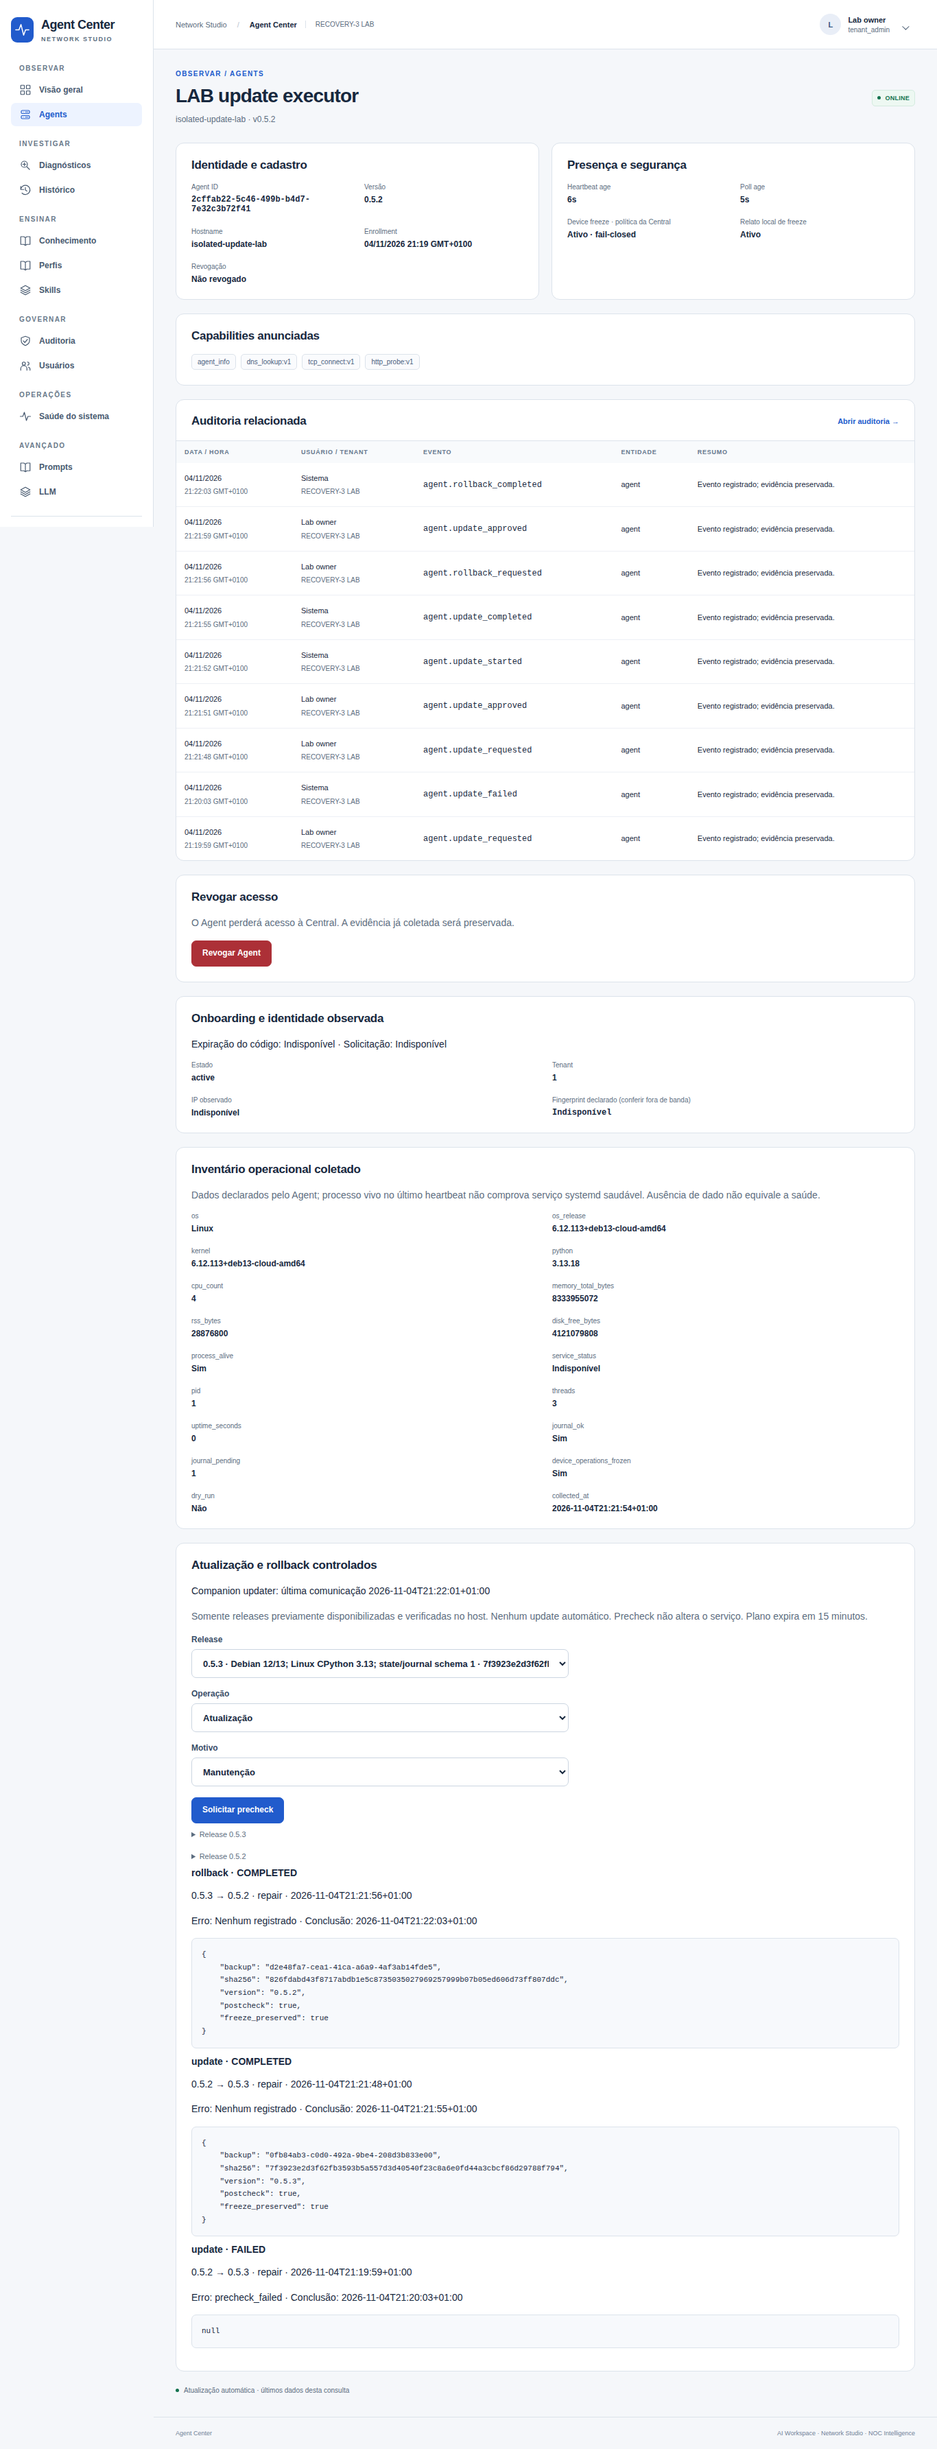
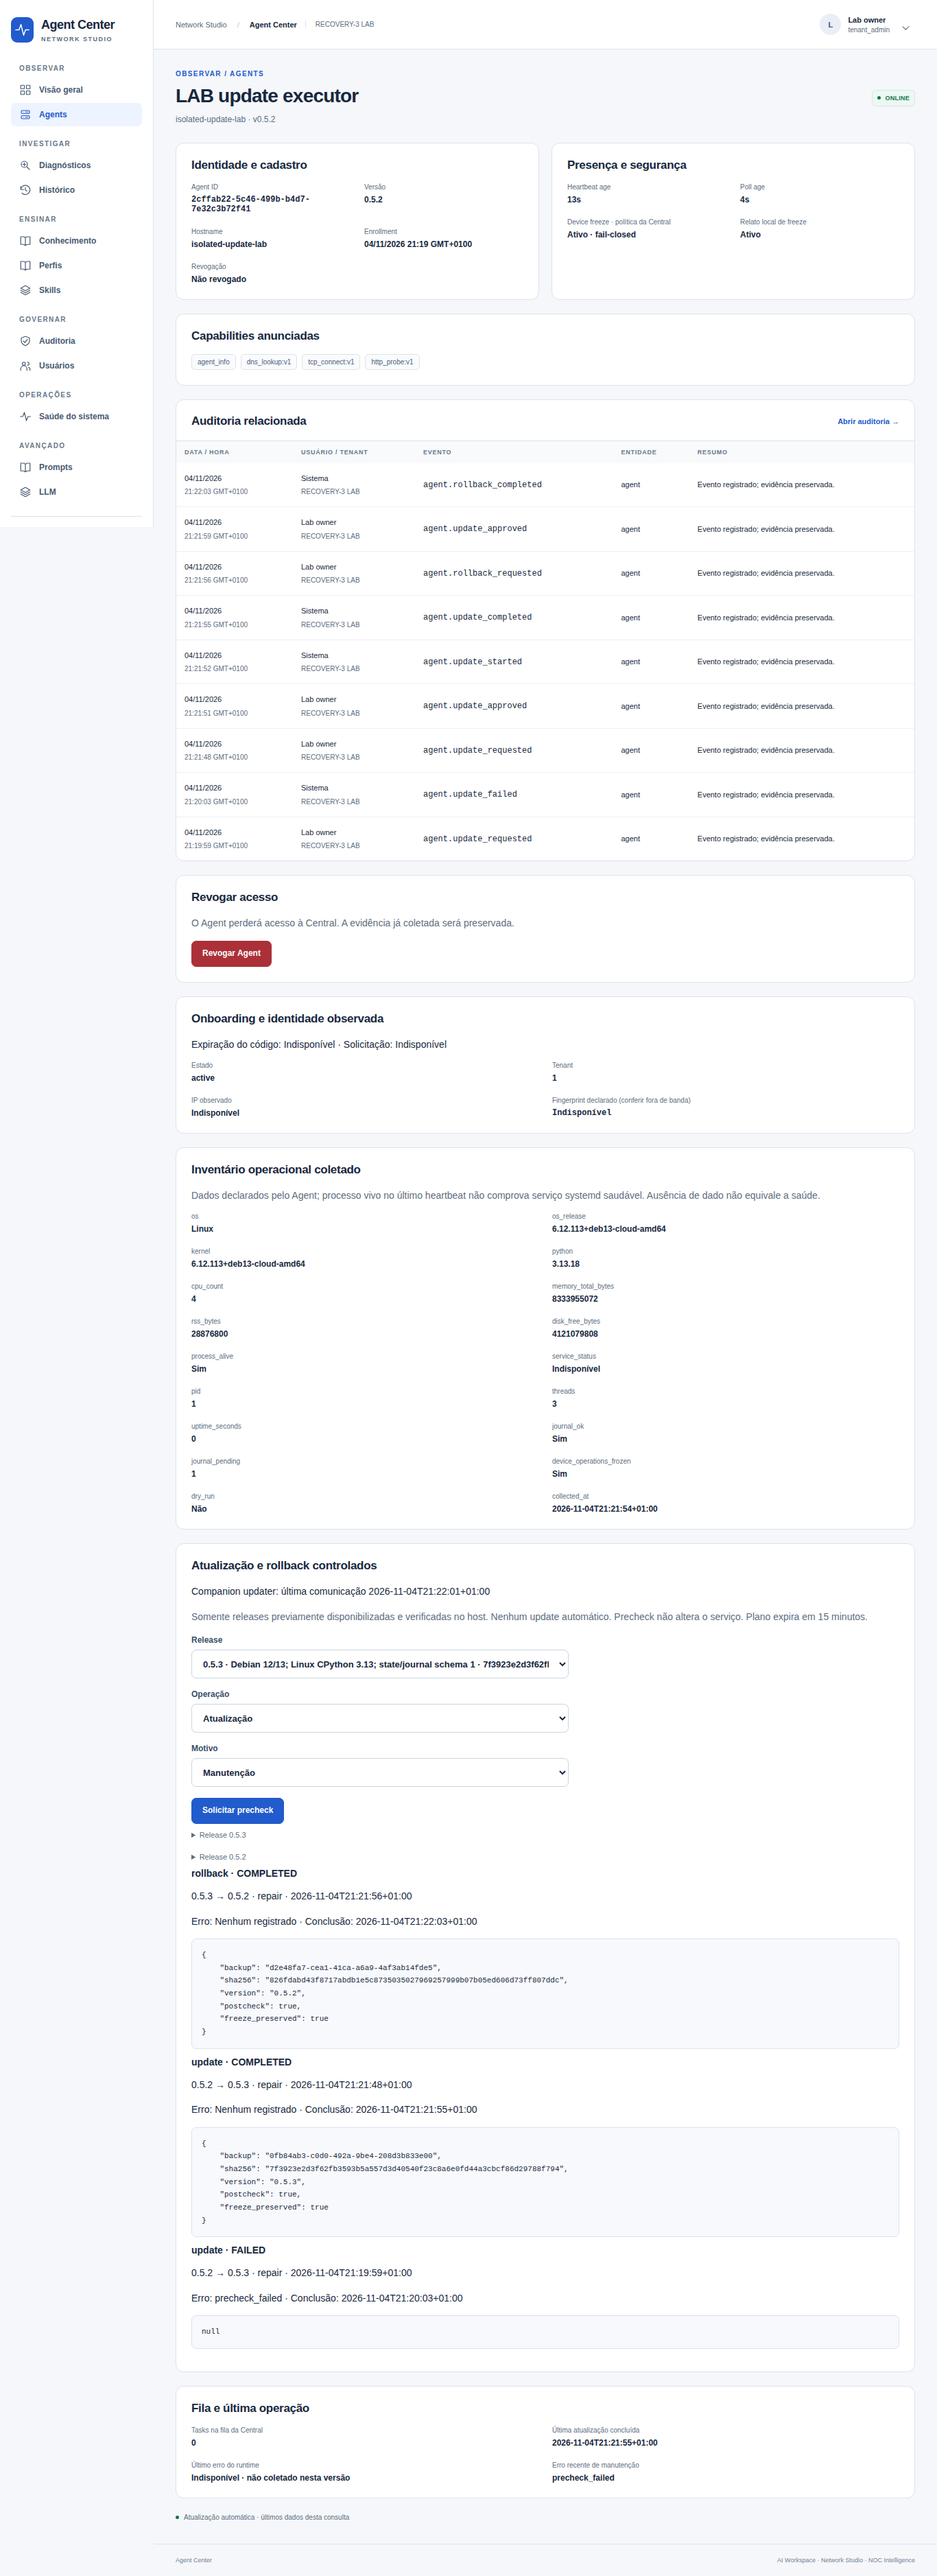
docs: seal recovery 7 validation artifacts and external blockers

diff --git a/docs/RECOVERY_7_VALIDATION.md b/docs/RECOVERY_7_VALIDATION.md
@@ -42,7 +42,7 @@ Operations Health acrescenta conclusão real de job de fila, valores/limites/tim
 
 ## Testes e evidências
 
-- Laravel/PostgreSQL: 132 testes, 1.087 assertions; migrations up/down, runtime sem ownership, 28 tabelas FORCE RLS, testes negativos HTTP/RBAC/RLS e FK composta. Nova UI também revalidada após campos de fila/última operação.
+- Laravel/PostgreSQL: 134 testes, 1.095 assertions; migrations up/down, runtime sem ownership, 28 tabelas FORCE RLS, testes negativos HTTP/RBAC/RLS e FK composta. Nova UI também revalidada após campos de fila/última operação.
 - Python: 52 testes; runtime, onboarding retomável, leases, execução, heartbeat independente, journal, update/rollback, falhas, crash, pacotes/SHA inválidos, freeze e telemetria sem crescimento de FDs.
 - Baseline reconstruído 0.5.2: 40 testes independentes.
 - Contrato HTTP real: enrollment/aprovação/credencial, Agent autenticado, heartbeat/poll/capabilities, precheck/apply/report, atualização 0.5.2→0.5.3 e rollback 0.5.3→0.5.2 em container dedicado com parada/partida reais. Backup consistente de cada operação verificado; identidade e entrada uncertain do journal mantidas. Serviço controlado pelo harness Docker, não por systemd real.
@@ -66,3 +66,17 @@ A restauração ocorre em banco/diretórios/containers separados nesta VPS; não
 Acesso HTTPS do IP 45.182.96.18 liberado a pedido, com nginx -t e reload específicos; usuário confirmou acesso. Gate permanece fechado aos demais endereços. A RECOVERY-7 foi construída/validada em checkout isolado e imagem local; produção não foi promovida automaticamente enquanto faltam os pré-requisitos externos.
 
 Nenhum host real foi identificado/autorizado para instalar Agent. A presença ONLINE mostrada nas evidências é exclusivamente do laboratório. Não houve acesso a equipamento, SSH/Huawei ou servidor externo. A instalação e o timer do companion exigem autorização do host, staging de release root e backup externo verificado. Logs de erro livres do runtime não são enviados à Central; último erro de runtime aparece Indisponível, e erros de manutenção são códigos fechados. Relato do próprio Agent não é atestado criptográfico nem prova de saúde do systemd. Fingerprint precisa de revisão fora de banda. Collector externo/rotação/status log precisam ser aplicados no deploy autorizado com output no storage compartilhado correto.
+
+## Fechamento da repetição prolongada
+
+Repetição com critérios inalterados: **PASS**, 901,68 segundos, 57 amostras, RSS +260 KiB (30.164–30.424 KiB), FDs 8–8, três threads, nenhum filho, CPU 1,56s, journal íntegro. Gap máximo de heartbeat 20,45s e poll 6,32s. Todas as amostras ONLINE; todos os probes de diagnostic-worker/PostgreSQL e progresso da fila passaram. Os contadores da summary são acumulados desde o início do processo; deltas desta janela e timestamps estão em `longrun-final-coverage.json`, e amostras completas em `longrun-final-samples.jsonl`. O ensaio FAIL anterior continua preservado; nenhum limite foi rebaixado nem amostra removida para obter PASS.
+
[1 lines of base64/hex data omitted]
+
+Resultado global: **RECOVERY-7 BLOCKED: destino externo autorizado de backup e recuperação fora da VPS não identificado/verificado**. Implementação e validação de laboratório concluídas. Instalação com systemd em host real, promoção de produção, instalação de monitor/timer/status log e validação independente em outra máquina permanecem pendentes. Não iniciar fase seguinte.
+
+O fechamento também corrigiu a contagem agregada ONLINE: exige os mesmos heartbeat/poll, versão reconhecida e freeze relatado usados no detalhe. Missing freeze/versão desconhecida/poll vencido nunca entram como ONLINE; regressão positiva/negativa passou em PostgreSQL. Laravel final: 134 testes / 1.095 assertions, incluindo todas as migrations up/down. Binário logrotate não está disponível neste tooling; configuração específica foi preparada/revisada, sem alegar execução de rotação real.
+
+Revisão final de concorrência: heartbeat/capabilities agora recarregam metadados sob lock da linha do Agent, evitando que uma fotografia antiga da autenticação apague opt-in/telemetria/updater. Regressão determinística com snapshot stale passou; contrato paralelo adicional pela imagem Nginx/FPM final fez 48 requests em 12 ciclos e comprovou preservação do opt-in. A janela prolongada pertence ao mesmo runtime 0.5.3 (SHA inalterado); o ajuste posterior do merge da Central teve suíte completa e contrato concorrente próprios, sem alegar nova janela de 15 minutos dessa alteração isolada.
+
+Laboratório encerrado após validação: oito containers e somente o volume/banco exclusivos da RECOVERY-7 foram removidos. State/journal/identidade foram arquivados privadamente após parada limpa; dump final foi restaurado novamente em banco isolado e hashes privados verificados. Produção e serviços de outros projetos preservados. Screenshots e ONLINE das amostras representam o período do ensaio, não presença em produção nem serviços de laboratório ainda ativos.

diff --git a/README.md b/README.md
@@ -1,7 +1,7 @@
-# Agent Center — RECOVERY-2
+# Agent Center — RECOVERY-7
 
-Central Laravel com identidade, tenants, RBAC/auditoria e Agent API v1. Python Agent reconstruído em 0.5.2; protocol/tasks operacionais permanecem bloqueados nesta fase. Base RECOVERY-1: da20d9c.
-Leia [AGENTS.md](AGENTS.md) antes de alterar o projeto; esta fase foi autorizada explicitamente. Nenhum AGENTS.md foi alterado no RECOVERY-2.
+Central Laravel/PostgreSQL com administração operacional de Agents, onboarding aprovado, Task Engine e runtime separado 0.5.3. Implementação validada em laboratório; destino externo de backup e implantação real permanecem pendentes. Ver docs/RECOVERY_7_VALIDATION.md.
+Leia [AGENTS.md](AGENTS.md) antes de alterar o projeto. O escopo RECOVERY-7 foi autorizado explicitamente; os AGENTS.md foram preservados.
 
 Browser → Nginx → Laravel Central → PostgreSQL. Python Agent é cliente separado, sem FastAPI/bridge.
 
@@ -15,7 +15,7 @@ Browser → Nginx → Laravel Central → PostgreSQL. Python Agent é cliente se
 - [Validação da fundação original](docs/VALIDATION.md)
 - [Validação RECOVERY-1](docs/RECOVERY_1_VALIDATION.md)
 
-HTTP somente local: http://127.0.0.1:18083/login. Usar túnel SSH para acesso remoto até configurar TLS. Não há conta ou senha padrão.
+HTTPS: https://agente.trevizamnetwork.com.br/ com gate por IP. HTTP de origem permanece em loopback. Não há conta ou senha padrão.
 
 ```sh
 cd /opt/agent-center
@@ -56,3 +56,9 @@ Experiência operacional com dashboard real, navegação por grupos, filtros de 
 ## Conversation Platform (RECOVERY-6)
 
 Conversa Web com estado, intenções determinísticas, Adaptive Tone automático, histórico e integração ao Task Engine. Ativação por tenant, desabilitada por padrão. Ver [Conversation Engine](docs/CONVERSATION_ENGINE.md) e [validação RECOVERY-6](docs/RECOVERY_6_VALIDATION.md). HTTPS com certificado válido e acesso restrito à VPS enquanto o backup externo não é configurado.
+
+## RECOVERY-7
+
+Código operacional reconstruído e validado em laboratório: onboarding com aprovação humana antes do bearer, runtime 0.5.3, instalador offline, inventário/presença, intenções controladas de update/rollback e observabilidade funcional. Ver [validação](docs/RECOVERY_7_VALIDATION.md), [onboarding](docs/AGENT_ONBOARDING.md), [operação](docs/AGENT_OPERATIONS.md) e [updates](docs/AGENT_UPDATES.md).
+
+Produção ainda não promovida para esta entrega. Backup externo autorizado e host real de Agent não identificados; não há disaster recovery completo nem Agent de produção ONLINE a declarar. Kit: agent/dist/recovery7-kit.tar.gz, hash externo em docs/evidence/recovery7/kit-archive.sha256. Nenhuma fase seguinte é iniciada.

diff --git a/docs/OPERATIONS_HEALTH.md b/docs/OPERATIONS_HEALTH.md
@@ -15,9 +15,9 @@ Tela existente `/operations`, administradores com tenant selecionado, polling le
 
 `scripts/collect-operations.py` consulta somente containers fixos deste projeto, HTTPS ready e validação sem credencial do Agent API (422 esperado). Nunca recebe comandos/endpoints do navegador. Produz JSON sanitizado; Laravel só lê essa evidência. Após 90s, dados externos deixam de valer e componentes voltam a ATENÇÃO.
 
-Configurar `deploy/agent-center-operations.service`/timer no host autorizado após deploy; adaptar output para volume compartilhado real se Laravel roda em container (o caminho do host e o storage do container precisam ser o mesmo volume). O timer preparado não foi presumido ativo. Não expor Docker socket ao Laravel. Probe de status do container utiliza healthchecks existentes, não apenas estado running.
+Configurar `deploy/agent-center-operations.service`/timer no host autorizado após deploy; o output usa o mountpoint do volume compartilhado `agent-center_app_storage` inspecionado nesta VPS; confirmar novamente com docker volume inspect ao implantar em outro host. O timer preparado não foi presumido ativo. Não expor Docker socket ao Laravel. Probe de status do container utiliza healthchecks existentes, não apenas estado running.
 
-Nginx: instalar formato `deploy/nginx/host/agent-center-observability.conf` no contexto http e vhost revisado. Log registra exclusivamente timestamp/status/latência; não contém URL, IP, headers, cookies, token ou body. Leitura limitada a 10 mil linhas/5min; HTTP 5xx acima de 5% é NO-GO. Sem amostras é ATENÇÃO. Configurar rotação privada; não habilitar logs de payloads para compensar ausência de métricas.
+Nginx: instalar formato `deploy/nginx/host/agent-center-observability.conf` no contexto http e vhost revisado. Log registra exclusivamente timestamp/status/latência; não contém URL, IP, headers, cookies, token ou body. Leitura limitada a 10 mil linhas/5min; HTTP 5xx acima de 5% é NO-GO. Sem amostras é ATENÇÃO. Rotação específica preparada em deploy/nginx/host/agent-center-logrotate.conf (sete dias, 0640, somente arquivo deste projeto); não habilitar logs de payloads para compensar ausência de métricas.
 
 Uma resposta local HTTPS comprova somente o caminho testado; monitor externo em outra rede continua pendente. Nginx e FPM ausentes na cobertura não são rotulados saudáveis pela tela. Logs/error samples podem conter informação confidencial; somente códigos fechados entram na Central.
 

diff --git a/docs/AGENT_ONBOARDING.md b/docs/AGENT_ONBOARDING.md
@@ -30,3 +30,5 @@ O helper usa o receipt privado existente, inicia somente a unit deste Agent e ag
 Rate limit de origem, enrollment/status e Agent continua ativo. Row locks impedem consumo concorrente/replay. Queries de descoberta anônima usam apenas ID/hash exatos e limpam contexto em finally. Agents, enrollments e operações usam tenant scope, Policies e FORCE RLS; FKs compostas impedem referência ao Agent de outro tenant. Viewer/operator não aprovam. Eventos permanentes não incluem heartbeat, tokens, receipts ou hashes secretos.
 
 Lista e detalhe usam polling leve de 10s; pausa com página oculta, formulário em foco ou confirmação aberta. Erro preserva última evidência e identifica consulta não atualizada. Expiração e solicitação são visíveis, sem revelar códigos existentes.
+
+Antes de instalação real, incluir somente o IP do host autorizado no gate de recuperação do vhost e validar HTTPS/CA. A liberação do IP do navegador não libera automaticamente outro host de Agent.

diff --git a/docs/AGENT_UPDATES.md b/docs/AGENT_UPDATES.md
@@ -52,3 +52,5 @@ php artisan agent-center:resolve-operation UUID_REAL --tenant=ID_REAL --host-rev
 ```
 
 Comando valida tenant/UUID/estado, mantém evidência e registra `*_failed`/interrupted. Não troca runtime, não reinicia serviço e não autoriza replay. Só usar após revisão real do host; operações UNCERTAIN/RUNNING/PRECHECKING não são resolvidas automaticamente pelo painel. Operations Health sinaliza UNCERTAIN e claims sem conclusão por mais de 300s como NO-GO.
+
+Após conclusão do enrollment, backup externo verificado e autorização explícita para operações remotas nesse host, habilitar o companion com `systemctl enable --now agent-center-updater.timer`. Se a instalação terminou em aprovação pendente (exit 4), o opt-in passado ao instalador ainda não habilitou o timer; a retomada da identidade não ativa privilégios remotos implicitamente.
